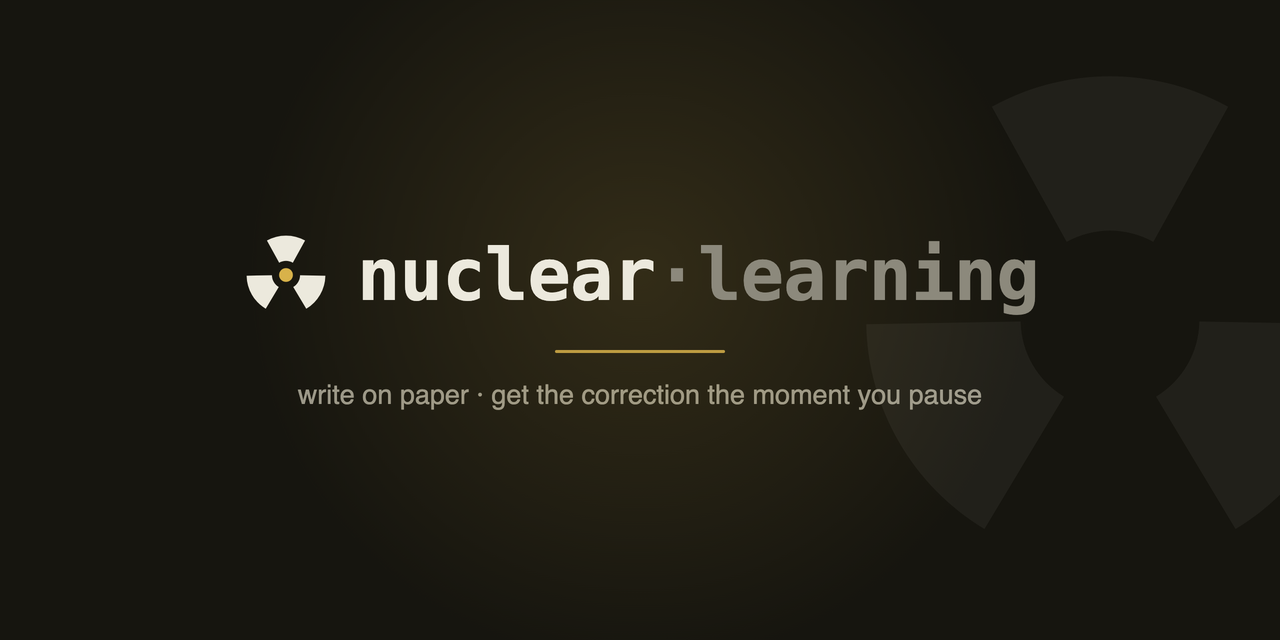
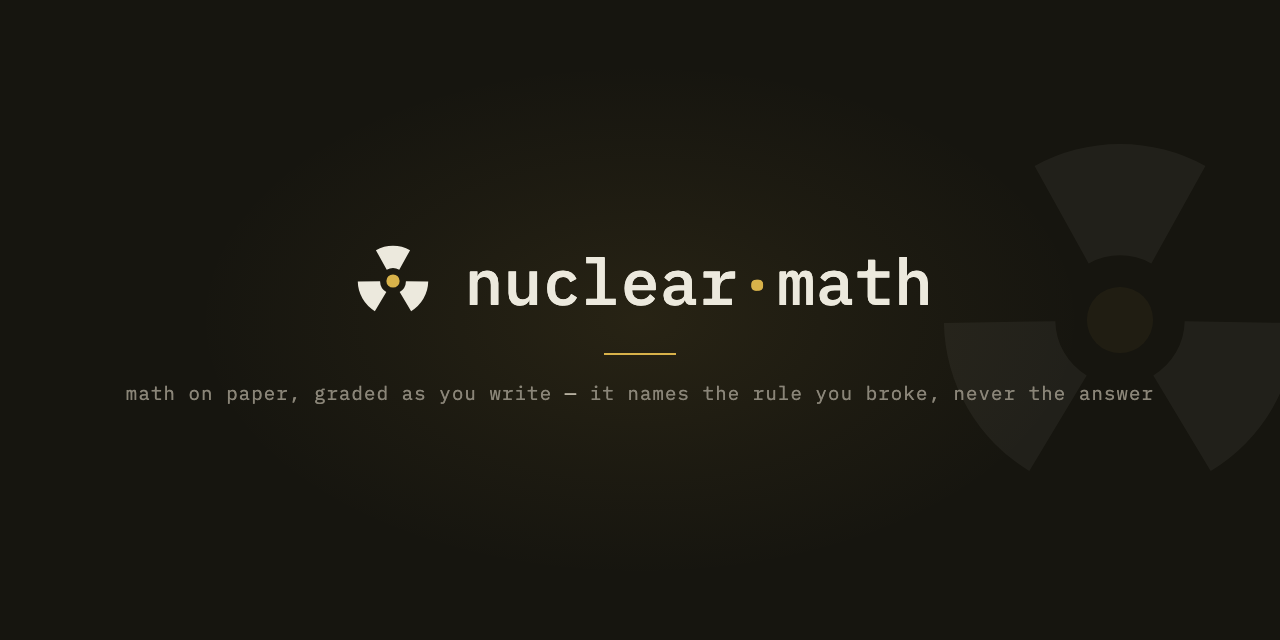
nuclear·math: the repo becomes what the app became — the README rebuilt around the math identity
The product stopped being a general grader long ago; the name and the front page catch up. The GitHub repo is renamed nuclear-math (redirects hold, the remote is updated), the trefoil stays — the brand equity is the mark, not the noun — and the wordmark, banner, and social preview are regenerated as nuclear·math with the tagline the app actually earns now: math on paper, graded as you write — it names the rule you broke, never the answer. The README is rewritten from zero rather than patched. It leads with the constraint story, because that is the product's spine since modes v13: a new section, "The hint names the rule", walks the three rungs with a hand-built ladder diagram (light and dark SVG twins in the house palette) whose constraint clauses are literally set in gold; the correction grace gets its own timeline diagram — a wrong step settles, the scan holds the sentence, and the fork shows the two endings, caught-yourself-never-spoken versus survives-a-pause-spoken-once. The paper-conventions, pipeline, memory (cards, skill map, chess-style rating), presets, run, and hardware sections are rewritten to match the code as it stands today — manual-only pen connection included — and a LICENSE file finally backs the MIT claim the old README made on faith. Verified by a three-lens adversarial pass: every checkable claim traced to source, the banned-word and voice rules hold, all image paths, picture fallbacks, alt texts, and SVG font stacks check out. Deliberately untouched:
[…]

diff --git a/README.md b/README.md
@@ -1,40 +1,54 @@
 <p align="center">
-  <img src="docs/banner.png" alt="nuclear·learning, write on paper and get the correction the moment you settle on an answer" width="100%">
+  <img src="docs/banner.png" alt="nuclear·math — math on paper, graded as you write; it names the rule you broke, never the answer" width="100%">
 </p>
 
-# nuclear-learning
+# nuclear·math
 
 ![Vue 3](https://img.shields.io/badge/Vue-3-1a1915?style=flat-square) ![TypeScript](https://img.shields.io/badge/TypeScript-strict-1a1915?style=flat-square) ![GPT-5.4 vision](https://img.shields.io/badge/GPT--5.4-vision-c39a27?style=flat-square) ![Web Bluetooth](https://img.shields.io/badge/Web%20Bluetooth-Chrome%20%2F%20Edge-1a1915?style=flat-square)
 
-A math tutor for paper. You write with a Neo Smartpen, the strokes stream into the browser over Bluetooth, and a vision model grades the page as it grows. It stays quiet while your work is correct, gives you a moment to catch a slip yourself before it speaks the one sentence that locates it — by what you actually wrote, in English or Swiss German — and tells you when everything on the page is finished and right.
+A math tutor for paper. You write with a Neo Smartpen, the strokes stream into the browser over Bluetooth, and a vision model reads the page as it grows — no OCR pass, no typing, no photographing your notebook. While the work is right it stays silent. When a step settles wrong, it first gives you room to catch the slip yourself, then speaks one sentence that names the rule the step broke — in English or Swiss German. And when every result on the page carries its final mark, the verdict comes at once.
 
 <p align="center">
-  <img src="docs/app.png" alt="the app: a problem on the pad with the app's hint in the status bar" width="880">
+  <img src="docs/app.png" alt="the app: a handwritten problem on the pad, the tutor's one-sentence hint in the status bar" width="880">
 </p>
 
-## How it hints
+## The hint names the rule
 
-A bare "this is wrong" is worth almost nothing — the feedback research measures it near zero, because you could just look the answer up. What works is an explanation that stops short of the answer. So the hints climb a ladder, one level per failed fix, the way a human tutor escalates — and every rung names the constraint the step violates: the general law or requirement it breaks, stated so it holds with any numbers, never applied to yours. The first hint locates the step and states that constraint; even an arithmetic slip carries its governing law rather than a bare "recheck". If you rework the spot and it is still wrong, the next hint keeps the constraint and adds the concrete move along your own route that satisfies it — split into cases, isolate the variable — but never a resulting value. The last rung sends you to the printed solutions for that one step, with instructions to explain to yourself how it keeps the constraint and rewrite it in your own words. A question mark written next to a flagged spot advances the ladder without waiting for a failed fix.
+A bare "this is wrong" measures near zero in the feedback literature, because you could just look the answer up. What moves learning is an explanation that stops short of the answer — so every hint here is built around the constraint the step violates: the general law or requirement it breaks, stated so it holds with any numbers, never applied to yours. Hints climb a ladder, one rung per failed fix, the way a human tutor escalates. The first rung locates the step and hands you the broken rule — an arithmetic slip carries its governing law too, not a bare "recheck". The second keeps the constraint and adds the concrete move along your own route that satisfies it. The last sends you to the printed solutions for that one step, to explain it to yourself and rewrite it in your own words. A question mark written next to a flagged spot advances the ladder without waiting for a failed attempt.
 
-At no level does it reveal the corrected expression or the answer. That restraint is load-bearing: in a randomized trial with about a thousand math students, an answer-revealing chatbot made exam scores worse than no help at all, while the same model behind a no-reveal guardrail helped. You fix your own errors here, which is also why the fixes stick.
+<p align="center">
+  <picture>
+    <source media="(prefers-color-scheme: dark)" srcset="docs/ladder-dark.svg">
+    <img src="docs/ladder.svg" alt="the three rungs of the hint ladder, each naming the violated constraint: first the constraint alone, then the constraint with the concrete move, last the printed solutions for that one step" width="820">
+  </picture>
+</p>
 
-It does not pounce either. A freshly settled mistake is seen but not spoken: the sentence is held until it survives your next stretch of writing, or until the pen has sat idle for about twenty seconds — long enough that you are stuck rather than thinking. Catch the slip in that window, strike it through, and you never hear about it, which is the better outcome anyway: an error you find yourself teaches more than one read to you. Only a final-marked page skips the wait — the mark says you are done and waiting, so the verdict comes at once. The window is the correction grace in the engine settings; zero restores the old pounce.
+The answer itself never comes. In a randomized trial with about a thousand math students, an answer-revealing chatbot made exam scores worse than no help at all, while the same model behind a no-reveal guardrail helped. So the tutor names laws and moves, and the values stay yours to find — which is also why the fixes stick.
 
-Your own conventions are respected. A line struck through or marked "falsch" with an arrow to a redo is finished business, never re-flagged — and rewriting a solution from scratch supersedes the flagged attempt, so the newest one is what gets judged. An intermediate result is left alone while you are still simplifying it. A double underline marks a result final (a box or a circle counts too), and a fully marked page always gets a verdict, never silence.
+It does not pounce either. A freshly settled mistake is seen but not spoken: the sentence is held until it survives your next stretch of writing, or until the pen has sat idle for about twenty seconds — long enough that you are stuck rather than thinking. Catch the slip in that window, strike it through, and you never hear about it, which is the better outcome anyway — an error you find yourself teaches more than one read to you. Only a final-marked page skips the wait: the mark says you are done and waiting. The window is the correction grace in the engine settings; zero turns it off.
+
+<p align="center">
+  <picture>
+    <source media="(prefers-color-scheme: dark)" srcset="docs/grace-dark.svg">
+    <img src="docs/grace.svg" alt="the correction grace as a timeline: a wrong step settles, the scan holds the sentence silently, and it is only spoken if it survives your next pause or twenty idle seconds — catch it yourself and it is never spoken" width="820">
+  </picture>
+</p>
+
+Your paper conventions are the interface. A line struck through or marked "falsch" with an arrow to a redo is finished business, never re-flagged — and rewriting a solution from scratch supersedes the flagged attempt, so the newest one is what gets judged. An intermediate result is left alone while you are still simplifying it. A double underline marks a result final (a box or a circle counts too), and a fully marked page always gets a verdict, never silence.
 
 ## How it works
 
-The pen streams (x, y, pressure) points over Web Bluetooth onto a canvas. When you pause, the page is cropped to just the ink and sent to the OpenAI API as a vision message. There is no OCR step; the model reads the ink directly.
+The pen streams (x, y, pressure) points over Web Bluetooth onto a canvas. When you pause, the page is cropped to just the ink and sent to the OpenAI API as a vision message; the model reads the handwriting directly. The moment the whole question is on the page, GPT-5.4 solves it once at medium effort and keeps that answer as a checklist. From then on GPT-5.4 mini verifies every scan against the checklist, staying quiet while a line is mid-working and speaking only once a wrong step has settled and outlived the correction grace. GPT-5.4 signs off a finished, correct answer before the app says so. The strong model runs twice per problem — once to solve, once to confirm — and the cheap one carries the repetitive middle.
 
-The moment the whole question is written, GPT-5.4 solves it once at medium effort and keeps that answer as a checklist. From then on GPT-5.4 mini verifies every scan against the checklist, staying quiet while a line is mid-working and speaking once a wrong step has settled and outlived the correction grace. GPT-5.4 signs off a finished, correct answer before the app says so. The strong model runs twice per problem, once to solve and once to confirm, and the cheap one carries the repetitive middle. Grading follows school convention rather than pedantry — a simplification task assumes its expressions are defined, so it will not demand absolute-value bars the textbook answer omits, but it will never wave through a lost solution of an equation. Everything is spoken as words rather than symbols, so a hint comes through as "x squared" or "the square root of two".
+Grading follows school convention rather than pedantry. A simplification task assumes its expressions are defined, so the tutor will not demand absolute-value bars the textbook answer omits — but it will never wave through a lost solution of an equation. Everything is spoken as words rather than symbols — "x squared", "the square root of two" — and the German voice keeps Swiss spelling.
 
 ## What it remembers
 
 Every mistake you fix becomes a review card, built from your own error and the worked solution already in hand, so you re-test the actual fix on a spacing schedule rather than a generic question bank. Corrected errors are the most memorable kind of correction, but they fade after about a week — the expanding schedule is what makes the fix permanent.
 
-Every solved problem also tags the skills behind it against a fixed map of 125 maths skills, from sign handling up through the chain rule and proof by induction. Each skill carries a rating that climbs on a clean solve, fades toward a guess as it goes stale, and stays provisional until enough problems have run through it. The Progress tab turns that into a recommendation — the weakest skill worth drilling and the strongest one going stale — and can generate a practice problem for it on demand, pitched so you would get it right about four times in five. Copy it onto the pad and the loop starts again. None of the tracking costs an extra request, and it can be turned off.
+Every solved problem also tags the skills behind it against a fixed map of 125 math skills, from sign handling up through the chain rule and proof by induction. Each skill carries a rating that climbs on a clean solve, fades toward a guess as it goes stale, and stays provisional until enough problems have run through it. The Progress tab turns that into a recommendation — the weakest skill worth drilling, the strongest one going stale — and can generate a practice problem for it on demand, pitched so you would get it right about four times in five. Copy it onto the pad and the loop starts again. None of the tracking costs an extra request, and it can be turned off.
 
-The same data drives a rating, chess-style. Every problem is a rated game — its difficulty is the opponent's strength — and a dozen problems in you carry a number on a familiar scale: 1600 means solid at the BM median, and each step of 400 is one stage of the ladder, which runs from secondary school through the school system's end and on into degree mathematics — the top bands are earned with proofs, not computations. The rank titles are student identities along that road. A rank arrives fast, climbs with the curve, and falls when you lose to problems you should beat. Grinding easy material cannot farm it: a win the rating already expected teaches it nothing, so climbing means beating problems at your level or above. The rating curve over time is the one answer to how fast you are getting better; the per-skill map underneath is the diagnostic that steers what to drill.
+The same data drives a rating, chess-style. Every problem is a rated game — its difficulty is the opponent's strength — and a dozen problems in you carry a number on a familiar scale: 1600 means solid at the BM median, and each step of 400 is one stage of a ladder that runs from secondary school through the school system's end and on into degree mathematics, where the top bands are earned with proofs, not computations. The rank titles are student identities along that road. A rank arrives fast, climbs with the curve, and falls when you lose to problems you should beat. Grinding easy material cannot farm it: a win the rating already expected teaches it nothing, so climbing means beating problems at your level or above. The rating curve over time is the one answer to how fast you are getting better; the per-skill map underneath is the diagnostic that steers what to drill.
 
 <p align="center">
   <picture>
@@ -45,7 +59,7 @@ The same data drives a rating, chess-style. Every problem is a rated game — it
 
 ## Presets
 
-The grader is one system prompt plus a few settings, edited live in the Presets tab or in `config/modes.json`. New presets clone the shipped math grader, so a variant starts from the tuned baseline — the conventions, the hint ladder, the self-correction protocol — instead of a blank slate. `feedbackStyle` is `"spoken"`, `"chime"`, or `"both"`; `debounceMs` is the pause before a check. The engine settings — models, effort, image quality, scan gating — live in `config/settings.json` and the same panel; the per-model prices the Usage tab computes cost from are pinned in `src/models.ts`.
+The grader is one system prompt plus a few settings, edited live in the Presets tab or in `config/modes.json`. New presets clone the shipped math grader, so a variant starts from the tuned baseline — the conventions, the hint ladder, the self-correction protocol — instead of a blank slate. `feedbackStyle` is `"spoken"`, `"chime"`, or `"both"`; `debounceMs` is the pause before a check. The engine settings — models, effort, image quality, scan gating, the correction grace — live in `config/settings.json` and the same panel; the per-model prices the Usage tab computes cost from are pinned in `src/models.ts`.
 
 ## Run it
 
@@ -70,4 +84,4 @@ Open the printed URL, connect the pen, and write. Pairing only works over `local
 
 ## License
 
-MIT
+[MIT](LICENSE)